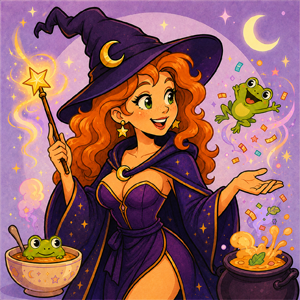
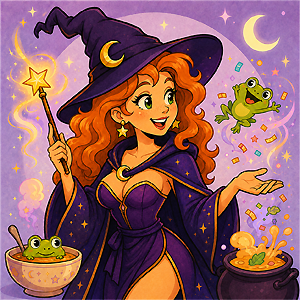
setup the plumping required for the mental transformation level and added one new image and updated another.

diff --git a/src/utils/mentalEffects.js b/src/utils/mentalEffects.js
@@ -1,0 +1,58 @@
+const {
+  MENTAL_EFFECT_OPTIONS,
+  SETTINGS_COPY,
+} = require("../config/settings");
+
+const MENTAL_EFFECT_LEVELS = MENTAL_EFFECT_OPTIONS.map(
+  (option) => option.value
+);
+
+const MENTAL_EFFECT_CONTENT_LEVELS = MENTAL_EFFECT_LEVELS.filter(
+  (level) => level !== "none"
+);
+
+const DEFAULT_MENTAL_EFFECT_LEVEL = "normal";
+
+function normalizeMentalEffectLevel(level) {
+  return MENTAL_EFFECT_LEVELS.includes(level)
+    ? level
+    : DEFAULT_MENTAL_EFFECT_LEVEL;
+}
+
+function getMentalEffectLevelLabel(level) {
+  const normalizedLevel = normalizeMentalEffectLevel(level);
+  const option = MENTAL_EFFECT_OPTIONS.find(
+    (mentalEffectOption) => mentalEffectOption.value === normalizedLevel
+  );
+
+  return option ? option.label : normalizedLevel;
+}
+
+function resolveMentalEffectText(
+  transformation,
+  requestedLevel = DEFAULT_MENTAL_EFFECT_LEVEL
+) {
+  const level = normalizeMentalEffectLevel(requestedLevel);
+
+  if (level === "none") {
+    return SETTINGS_COPY.mentalEffects.noMentalEffectsText;
+  }
+
+  const mentalEffects = transformation.transformationNotes?.mentalEffects;
+  const selectedEffect = mentalEffects?.[level];
+
+  if (typeof selectedEffect !== "string" || !selectedEffect.trim()) {
+    return null;
+  }
+
+  return selectedEffect;
+}
+
+module.exports = {
+  DEFAULT_MENTAL_EFFECT_LEVEL,
+  MENTAL_EFFECT_CONTENT_LEVELS,
+  MENTAL_EFFECT_LEVELS,
+  getMentalEffectLevelLabel,
+  normalizeMentalEffectLevel,
+  resolveMentalEffectText,
+};

diff --git a/src/utils/transformationNotes.js b/src/utils/transformationNotes.js
@@ -1,21 +1,39 @@
 const { EmbedBuilder } = require("discord.js");
+const {
+  DEFAULT_MENTAL_EFFECT_LEVEL,
+  getMentalEffectLevelLabel,
+  resolveMentalEffectText,
+} = require("./mentalEffects");
 
-function hasTransformationNotes(transformation) {
+function hasTransformationNotes(
+  transformation,
+  mentalEffectLevel = DEFAULT_MENTAL_EFFECT_LEVEL
+) {
   const notes = transformation.transformationNotes;
-  const mentalEffects = notes?.mentalEffects;
+  const mentalEffectText = resolveMentalEffectText(
+    transformation,
+    mentalEffectLevel
+  );
 
   return Boolean(
     notes &&
       (
         notes.physicalEffects ||
-        mentalEffects?.normal
+        mentalEffectText
       )
   );
 }
 
-function buildTransformationNoteEmbed(transformation) {
+function buildTransformationNoteEmbed(
+  transformation,
+  mentalEffectLevel = DEFAULT_MENTAL_EFFECT_LEVEL
+) {
   const notes = transformation.transformationNotes;
-  const mentalEffects = notes?.mentalEffects;
+  const mentalEffectText = resolveMentalEffectText(
+    transformation,
+    mentalEffectLevel
+  );
+  const mentalEffectLevelLabel = getMentalEffectLevelLabel(mentalEffectLevel);
 
   const embed = new EmbedBuilder()
     .setTitle("✨ Private Transformation Note")
@@ -37,10 +55,10 @@ function buildTransformationNoteEmbed(transformation) {
     });
   }
 
-  if (mentalEffects?.normal) {
+  if (mentalEffectText) {
     embed.addFields({
-      name: "Mental Effects",
-      value: mentalEffects.normal,
+      name: `Mental Effects (${mentalEffectLevelLabel})`,
+      value: mentalEffectText,
       inline: false,
     });
   }
@@ -48,8 +66,12 @@ function buildTransformationNoteEmbed(transformation) {
   return embed;
 }
 
-async function sendTransformationNote(discordUser, transformation) {
-  if (!hasTransformationNotes(transformation)) {
+async function sendTransformationNote(
+  discordUser,
+  transformation,
+  mentalEffectLevel = DEFAULT_MENTAL_EFFECT_LEVEL
+) {
+  if (!hasTransformationNotes(transformation, mentalEffectLevel)) {
     return {
       attempted: false,
       sent: false,
@@ -57,7 +79,10 @@ async function sendTransformationNote(discordUser, transformation) {
   }
 
   try {
-    const embed = buildTransformationNoteEmbed(transformation);
+    const embed = buildTransformationNoteEmbed(
+      transformation,
+      mentalEffectLevel
+    );
 
     await discordUser.send({
       embeds: [embed],
@@ -78,5 +103,6 @@ async function sendTransformationNote(discordUser, transformation) {
 }
 
 module.exports = {
+  buildTransformationNoteEmbed,
   sendTransformationNote,
 };

diff --git a/src/config/settings.js b/src/config/settings.js
@@ -1,0 +1,44 @@
+const MENTAL_EFFECT_OPTIONS = [
+  {
+    label: "None",
+    value: "none",
+    description: "No mental transformation effects.",
+  },
+  {
+    label: "Mild",
+    value: "mild",
+    description: "Small mood or confidence nudges.",
+  },
+  {
+    label: "Normal",
+    value: "normal",
+    description: "The standard mental transformation level.",
+  },
+  {
+    label: "Strong",
+    value: "strong",
+    description: "Hard-to-ignore urges or personality pulls.",
+  },
+  {
+    label: "Full",
+    value: "full",
+    description: "Major personality and behaviour shift.",
+  },
+  {
+    label: "Overwritten",
+    value: "overwritten",
+    description: "Maximum opt-in identity/self-concept rewrite tier.",
+  },
+];
+
+const SETTINGS_COPY = {
+  mentalEffects: {
+    noMentalEffectsText:
+      "There were no mental changes with this transformation.",
+  },
+};
+
+module.exports = {
+  MENTAL_EFFECT_OPTIONS,
+  SETTINGS_COPY,
+};

diff --git a/scripts/validate-data.js b/scripts/validate-data.js
@@ -1,5 +1,8 @@
 const fs = require("fs");
 const path = require("path");
+const {
+  MENTAL_EFFECT_CONTENT_LEVELS,
+} = require("../src/utils/mentalEffects");
 
 const transformationsDirectoryPath = path.join(
   __dirname,
@@ -20,8 +23,6 @@ const mentalEffectsFilePath = path.join(
   transformationsDirectoryPath,
   "mental-effects.json"
 );
-const mentalEffectTiers = ["mild", "normal", "strong", "full", "overwritten"];
-
 let hasError = false;
 
 function reportError(message) {
@@ -136,11 +137,13 @@ function validateMentalEffectsFile(effects, transformationIds) {
       continue;
     }
 
-    for (const tier of mentalEffectTiers) {
+    for (const tier of MENTAL_EFFECT_CONTENT_LEVELS) {
       if (!(tier in mentalEffect)) {
         reportWarning(`${id} is missing ${tier} mental effects.`);
       } else if (typeof mentalEffect[tier] !== "string") {
         reportError(`${id} ${tier} mental effects must be a string.`);
+      } else if (tier !== "normal" && !mentalEffect[tier].trim()) {
+        reportWarning(`${id} has blank ${tier} mental effects.`);
       }
     }
 

diff --git a/README.md b/README.md
@@ -183,6 +183,11 @@ keyed by transformation `id`, with the current default note in `normal`:
 }
 ```
 
+The bot currently sends the `normal` mental effect tier to every user with
+Transformation Notes enabled. Other tiers are content-ready for future character
+settings. Mental effect option labels, descriptions, and the no-mental-change
+message live in `src/config/settings.js`.
+
 If the details file is missing, empty, or contains an empty array, transformation
 commands will reply that no transformations are loaded.
 